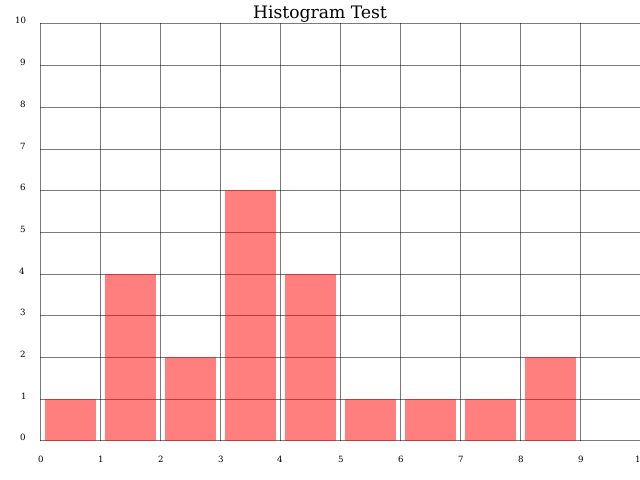
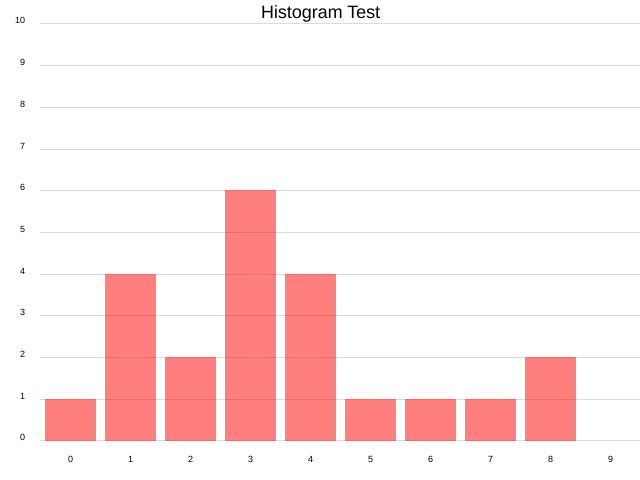
Update histogram example

diff --git a/src/chart.rs b/src/chart.rs
@@ -154,6 +154,9 @@ pub struct MeshStyle<'a, X: Ranged, Y: Ranged, DB>
 where
     DB: DrawingBackend,
 {
+    draw_x_mesh: bool,
+    draw_y_mesh: bool,
+    x_label_offset: i32,
     n_x_labels: usize,
     n_y_labels: usize,
     line_style_1: Option<&'a ShapeStyle<'a>>,
@@ -171,6 +174,18 @@ where
     Y: Ranged,
     DB: DrawingBackend,
 {
+    pub fn x_label_offset(&mut self, value:i32) -> &mut Self {
+        self.x_label_offset = value;
+        return self;
+    }
+    pub fn disable_x_mesh(&mut self) -> &mut Self {
+        self.draw_x_mesh = false;
+        return self;
+    }
+    pub fn disable_y_mesh(&mut self) -> &mut Self {
+        self.draw_y_mesh = false;
+        return self;
+    }
     /// Set how many labels for the X axis at most
     pub fn x_labels(&mut self, value: usize) -> &mut Self {
         self.n_x_labels = value;
@@ -257,6 +272,9 @@ where
             mesh_style_2,
             label_style,
             |_| None,
+            self.draw_x_mesh,
+            self.draw_y_mesh,
+            self.x_label_offset,
         )?;
 
         return target.draw_mesh(
@@ -267,6 +285,9 @@ where
                 MeshLine::XMesh(_, _, v) => Some((self.format_x)(v)),
                 MeshLine::YMesh(_, _, v) => Some((self.format_y)(v)),
             },
+            self.draw_x_mesh,
+            self.draw_y_mesh,
+            self.x_label_offset,
         );
     }
 }
@@ -283,6 +304,9 @@ impl<
     /// the function `MeshStyle::draw`
     pub fn configure_mesh(&mut self) -> MeshStyle<X, Y, DB> {
         return MeshStyle {
+            x_label_offset: 0,
+            draw_x_mesh: true,
+            draw_y_mesh: true,
             n_x_labels: 10,
             n_y_labels: 10,
             line_style_1: None,
@@ -343,6 +367,9 @@ impl<DB: DrawingBackend, X: Ranged, Y: Ranged> ChartContext<DB, RangedCoord<X, Y
         mesh_line_style: &ShapeStyle,
         label_style: &TextStyle,
         mut fmt_label: FmtLabel,
+        x_mesh: bool,
+        y_mesh: bool,
+        x_label_offset: i32,
     ) -> Result<(), DrawingAreaErrorKind<DB::ErrorType>>
     where
         FmtLabel: FnMut(&MeshLine<X, Y>) -> Option<String>,
@@ -351,19 +378,22 @@ impl<DB: DrawingBackend, X: Ranged, Y: Ranged> ChartContext<DB, RangedCoord<X, Y
         let mut y_labels = vec![];
         self.drawing_area.draw_mesh(
             |b, l| {
+                let draw;
                 match l {
                     MeshLine::XMesh((x, _), _, _) => {
                         if let Some(label_text) = fmt_label(&l) {
                             x_labels.push((x, label_text));
                         }
+                        draw = x_mesh;
                     }
                     MeshLine::YMesh((_, y), _, _) => {
                         if let Some(label_text) = fmt_label(&l) {
                             y_labels.push((y, label_text));
                         }
+                        draw = y_mesh;
                     }
                 };
-                return l.draw(b, mesh_line_style);
+                return if draw { l.draw(b, mesh_line_style) } else { Ok(()) };
             },
             r,
             c,
@@ -374,7 +404,7 @@ impl<DB: DrawingBackend, X: Ranged, Y: Ranged> ChartContext<DB, RangedCoord<X, Y
         if let Some(ref xl) = self.x_label_area {
             for (p, t) in x_labels {
                 let (w, _) = label_style.font.box_size(&t).unwrap_or((0, 0));
-                xl.draw_text(&t, label_style, (p - x0 - w as i32 / 2, 15))?;
+                xl.draw_text(&t, label_style, (p - x0 - w as i32 / 2 + x_label_offset, 15))?;
             }
         }
 

diff --git a/examples/histogram.rs b/examples/histogram.rs
@@ -12,7 +12,11 @@ fn main() -> Result<(), Box<dyn std::error::Error>> {
         .caption("Histogram Test", &font)
         .build_ranged::<RangedCoordu32, RangedCoordu32, _, _>(0..10, 0..10);
 
-    chart.configure_mesh().draw()?;
+    chart.configure_mesh()
+        .disable_x_mesh()
+        .line_style_1(&Into::into(&RGBColor(255,255,255).mix(0.3)))
+        .x_label_offset(30)
+        .draw()?;
 
     let data = [
         0, 1, 1, 1, 4, 2, 5, 7, 8, 6, 4, 2, 1, 8, 3, 3, 3, 4, 4, 3, 3, 3,
